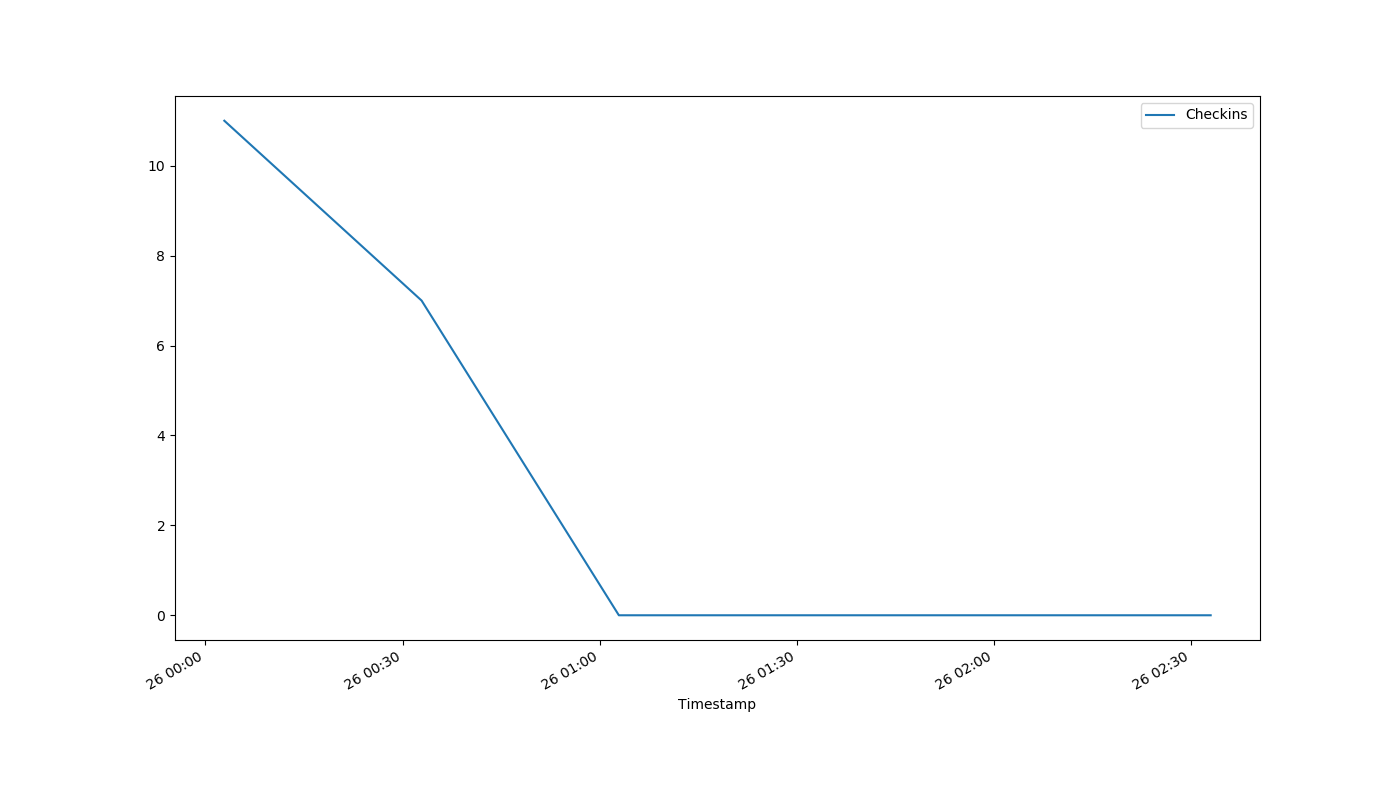
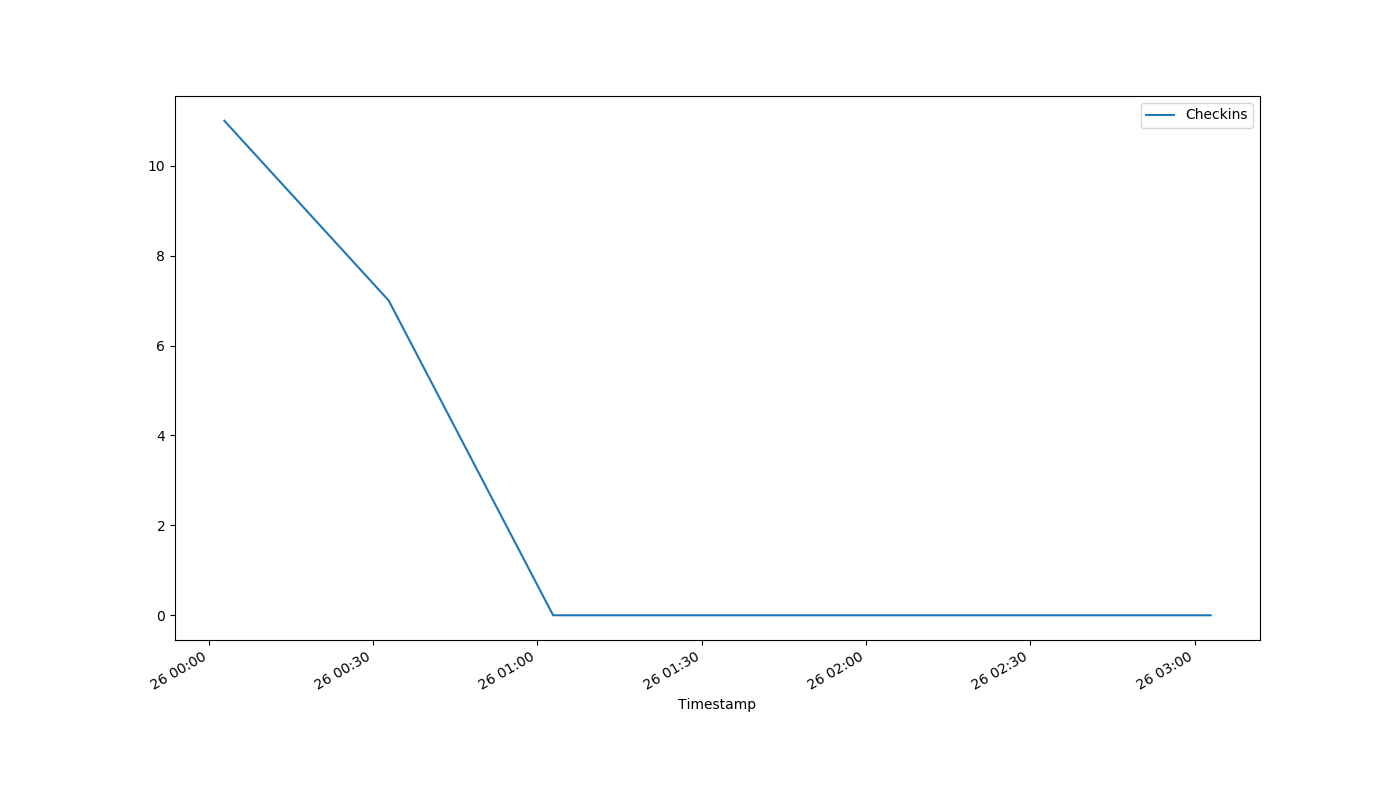
auto-Jul-26-03:03:56

diff --git a/index.html b/index.html
@@ -1,1 +1,1 @@
-<!DOCTYPE html><html><head><meta http-equiv="refresh" content="30"><link rel='stylesheet' href='holmcurrent.css'></head><body><p id='count'>0</p><div id='graph-wrap'><img id='graph' src='holmgraph-Jul-26.png'></div><p id='updated'>Last updated 02:33:14 / 02:32:56</p></body></html>
+<!DOCTYPE html><html><head><meta http-equiv="refresh" content="30"><link rel='stylesheet' href='holmcurrent.css'></head><body><p id='count'>0</p><div id='graph-wrap'><img id='graph' src='holmgraph-Jul-26.png'></div><p id='updated'>Last updated 03:03:14 / 03:02:57</p></body></html>
